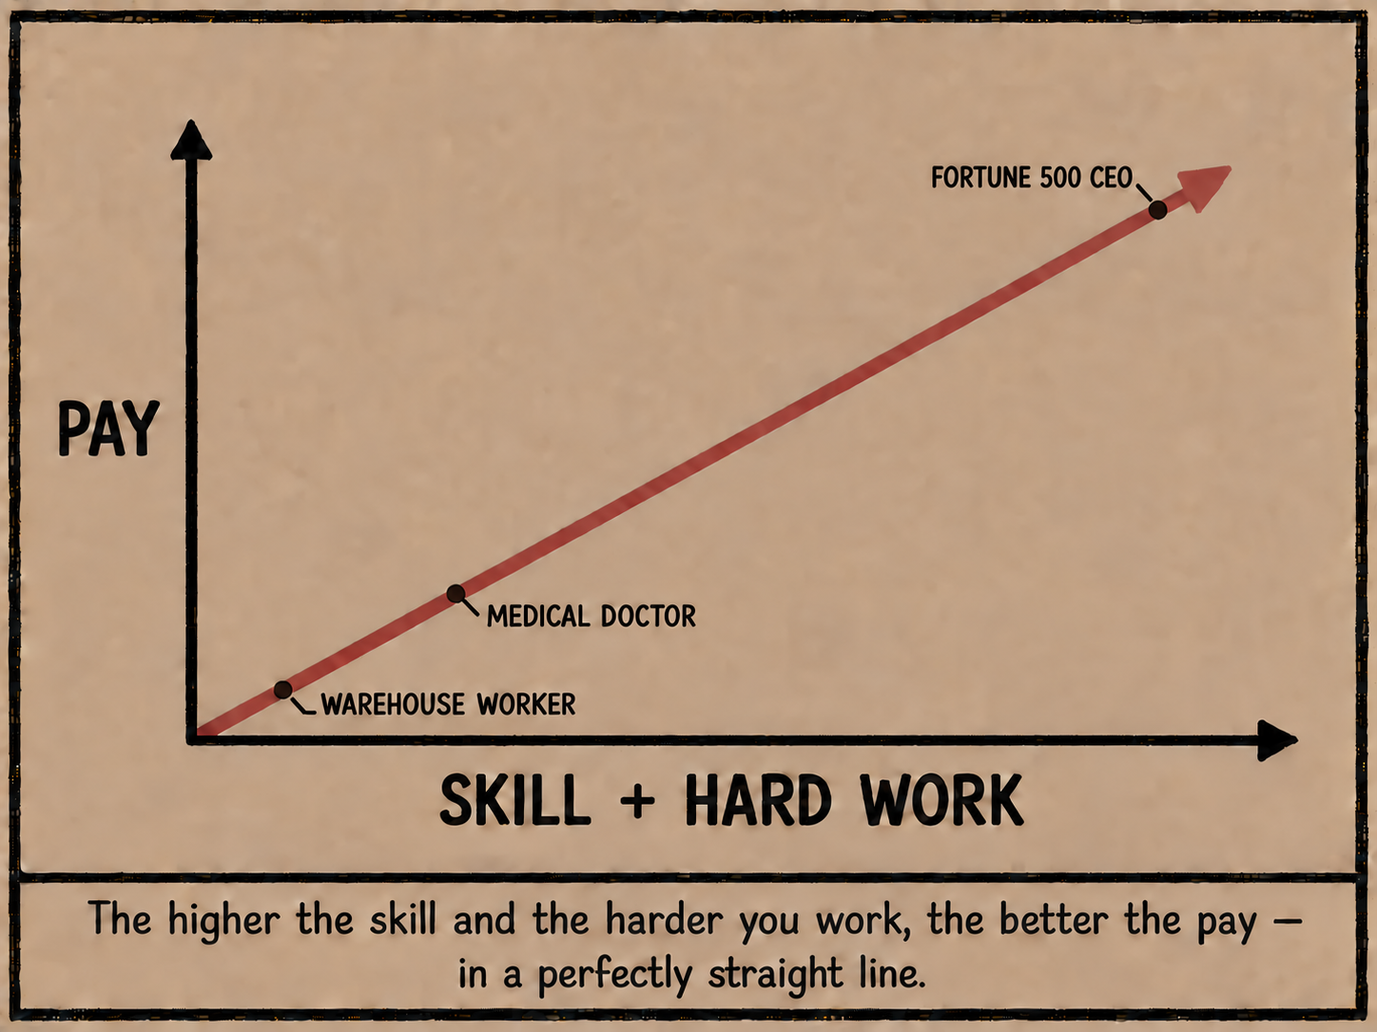
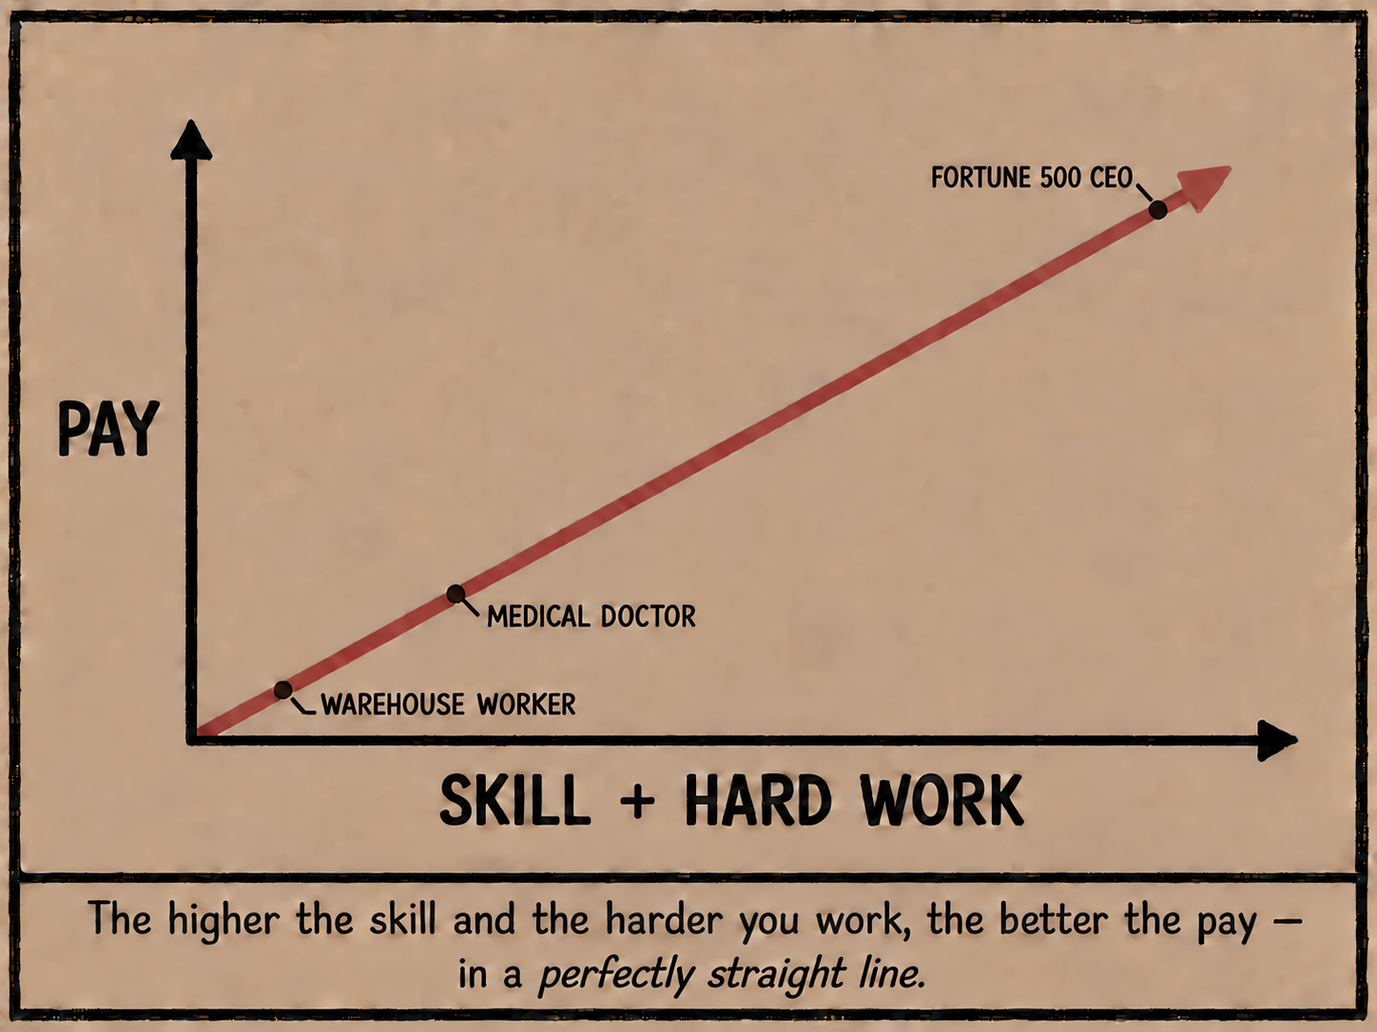
Update skill comic and move Abuse summary to description

Changed region(s): [[0.5283, 0.9116, 0.6837, 0.9724], [0.3729, 0.9116, 0.4972, 0.9724], [0.2797, 0.6685, 0.3419, 0.6989]]

diff --git a/comics/abuse/index.html b/comics/abuse/index.html
@@ -3,13 +3,13 @@
   <head>
     <meta charset="UTF-8" />
     <meta name="viewport" content="width=device-width, initial-scale=1.0" />
-    <meta name="description" content="A text-based political comic about Donald Trump&#x27;s pardons for men convicted in the January 6 attack on D.C. police officer Michael Fanone." />
+    <meta name="description" content="The comic describes how a stupid, mouth breathing mob that thought the 2020 election was &quot;rigged&quot; beat and tortured a police officer and then got pardoned by a fake president." />
     <meta name="robots" content="index, follow, max-image-preview:large" />
     <meta name="theme-color" content="#f5f2eb" />
     <meta property="og:type" content="article" />
     <meta property="og:site_name" content="Stealing Art Jobs" />
     <meta property="og:title" content="Abuse — Stealing Art Jobs" />
-    <meta property="og:description" content="A text-based political comic about Donald Trump&#x27;s pardons for men convicted in the January 6 attack on D.C. police officer Michael Fanone." />
+    <meta property="og:description" content="The comic describes how a stupid, mouth breathing mob that thought the 2020 election was &quot;rigged&quot; beat and tortured a police officer and then got pardoned by a fake president." />
     <meta property="og:image" content="https://stealingartjobs.com/comics/abuse.png?v=4" />
     <meta property="og:url" content="https://stealingartjobs.com/comics/abuse/" />
     <link rel="canonical" href="https://stealingartjobs.com/comics/abuse/" />
@@ -19,7 +19,7 @@
     <link href="https://fonts.googleapis.com/css2?family=DM+Mono:wght@400;500&family=Manrope:wght@500;600;700;800&display=swap" rel="stylesheet" />
     <link rel="stylesheet" href="/styles.css?v=21" />
     <script type="application/ld+json">{"@context":"https://schema.org","@type":"WebSite","name":"Stealing Art Jobs","url":"https://stealingartjobs.com/","description":"An independent webcomic about art, work, technology, and strange incentives."}</script>
-    <script type="application/ld+json">{"@context": "https://schema.org", "@type": "CreativeWork", "name": "Abuse", "description": "A text-based political comic about Donald Trump's pardons for men convicted in the January 6 attack on D.C. police officer Michael Fanone.", "datePublished": "2026-10-29", "image": "https://stealingartjobs.com/comics/abuse.png?v=4", "url": "https://stealingartjobs.com/comics/abuse/", "isPartOf": {"@type": "WebSite", "name": "Stealing Art Jobs", "url": "https://stealingartjobs.com/"}}</script>
+    <script type="application/ld+json">{"@context": "https://schema.org", "@type": "CreativeWork", "name": "Abuse", "description": "The comic describes how a stupid, mouth breathing mob that thought the 2020 election was \"rigged\" beat and tortured a police officer and then got pardoned by a fake president.", "datePublished": "2026-10-29", "image": "https://stealingartjobs.com/comics/abuse.png?v=4", "url": "https://stealingartjobs.com/comics/abuse/", "isPartOf": {"@type": "WebSite", "name": "Stealing Art Jobs", "url": "https://stealingartjobs.com/"}}</script>
   </head>
   <body>
     <header class="site-header">
@@ -58,7 +58,7 @@
           <li><a href="/comics/executive/" data-comic-index="5"><span>06</span><strong>Executive</strong><span>Uploaded August 26, 2026</span></a></li>
           <li><a href="/comics/american-software-engineer/" data-comic-index="6"><span>07</span><strong>American</strong><span>Uploaded August 27, 2026</span></a></li>
           <li><a href="/comics/captive-users/" data-comic-index="7"><span>08</span><strong>Captive Users</strong><span>Uploaded August 28, 2026</span></a></li>
-          <li><a href="/comics/pay-by-skill/" data-comic-index="8"><span>09</span><strong>Pay by Skill</strong><span>Uploaded September 24, 2026</span></a></li>
+          <li><a href="/comics/pay-by-skill/" data-comic-index="8"><span>09</span><strong>They&#x27;re just that much smarter bro!</strong><span>Uploaded September 24, 2026</span></a></li>
           <li><a href="/comics/living-memory/" data-comic-index="9"><span>10</span><strong>Living Memory</strong><span>Uploaded October 4, 2026</span></a></li>
           <li><a href="/comics/abuse/" data-comic-index="10"><span>11</span><strong>Abuse</strong><span>Uploaded October 29, 2026</span></a></li>
           <li><a href="/comics/more-abuse/" data-comic-index="11"><span>12</span><strong>More Abuse</strong><span>Uploaded October 29, 2026</span></a></li>
@@ -83,7 +83,7 @@
           <button class="comic-arrow comic-arrow-next" id="comic-next" type="button" aria-label="Next comic" disabled><span aria-hidden="true">&gt;</span></button>
         </figure>
 
-        <p class="comic-caption" id="comic-caption">The comic describes how a stupid, mouth breathing mob that thought the 2020 election was &quot;rigged&quot; beat and tortured a police officer and then got pardoned by a fake president</p>
+        <p class="comic-caption" id="comic-caption" hidden></p>
 
         <div class="reader-controls" aria-label="Comic navigation">
           <button id="first-button" type="button"><span aria-hidden="true">↤</span> First</button>
@@ -96,6 +96,7 @@
         <details class="comic-transcript" id="comic-transcript">
           <summary>Description</summary>
           <div class="comic-transcript-copy" id="comic-transcript-copy">
+            <p>The comic describes how a stupid, mouth breathing mob that thought the 2020 election was &quot;rigged&quot; beat and tortured a police officer and then got pardoned by a fake president.</p>
             <p>Headline: ‘Pardoned.’</p>
             <p>On January 20, 2025, Republican President Donald Trump pardoned men convicted in the January 6, 2021 attack on D.C. police officer Michael Fanone.</p>
             <p>Daniel Rodriguez shocked Fanone in the neck with a stun gun and was sentenced to 151 months in prison.</p>

diff --git a/comics/pay-by-skill/index.html b/comics/pay-by-skill/index.html
@@ -8,18 +8,18 @@
     <meta name="theme-color" content="#f5f2eb" />
     <meta property="og:type" content="article" />
     <meta property="og:site_name" content="Stealing Art Jobs" />
-    <meta property="og:title" content="Pay by Skill — Stealing Art Jobs" />
+    <meta property="og:title" content="They&#x27;re just that much smarter bro! — Stealing Art Jobs" />
     <meta property="og:description" content="A satirical linear graph ranks a warehouse worker, medical doctor, and Fortune 500 CEO as if pay perfectly reflected skill and hard work." />
-    <meta property="og:image" content="https://stealingartjobs.com/comics/pay-by-skill.png?v=2" />
+    <meta property="og:image" content="https://stealingartjobs.com/comics/pay-by-skill.png?v=3" />
     <meta property="og:url" content="https://stealingartjobs.com/comics/pay-by-skill/" />
     <link rel="canonical" href="https://stealingartjobs.com/comics/pay-by-skill/" />
-    <title>Pay by Skill — Stealing Art Jobs</title>
+    <title>They&#x27;re just that much smarter bro! — Stealing Art Jobs</title>
     <link rel="preconnect" href="https://fonts.googleapis.com" />
     <link rel="preconnect" href="https://fonts.gstatic.com" crossorigin />
     <link href="https://fonts.googleapis.com/css2?family=DM+Mono:wght@400;500&family=Manrope:wght@500;600;700;800&display=swap" rel="stylesheet" />
     <link rel="stylesheet" href="/styles.css?v=21" />
     <script type="application/ld+json">{"@context":"https://schema.org","@type":"WebSite","name":"Stealing Art Jobs","url":"https://stealingartjobs.com/","description":"An independent webcomic about art, work, technology, and strange incentives."}</script>
-    <script type="application/ld+json">{"@context": "https://schema.org", "@type": "CreativeWork", "name": "Pay by Skill", "description": "A satirical linear graph ranks a warehouse worker, medical doctor, and Fortune 500 CEO as if pay perfectly reflected skill and hard work.", "datePublished": "2026-09-24", "image": "https://stealingartjobs.com/comics/pay-by-skill.png?v=2", "url": "https://stealingartjobs.com/comics/pay-by-skill/", "isPartOf": {"@type": "WebSite", "name": "Stealing Art Jobs", "url": "https://stealingartjobs.com/"}}</script>
+    <script type="application/ld+json">{"@context": "https://schema.org", "@type": "CreativeWork", "name": "They're just that much smarter bro!", "description": "A satirical linear graph ranks a warehouse worker, medical doctor, and Fortune 500 CEO as if pay perfectly reflected skill and hard work.", "datePublished": "2026-09-24", "image": "https://stealingartjobs.com/comics/pay-by-skill.png?v=3", "url": "https://stealingartjobs.com/comics/pay-by-skill/", "isPartOf": {"@type": "WebSite", "name": "Stealing Art Jobs", "url": "https://stealingartjobs.com/"}}</script>
   </head>
   <body>
     <header class="site-header">
@@ -58,7 +58,7 @@
           <li><a href="/comics/executive/" data-comic-index="5"><span>06</span><strong>Executive</strong><span>Uploaded August 26, 2026</span></a></li>
           <li><a href="/comics/american-software-engineer/" data-comic-index="6"><span>07</span><strong>American</strong><span>Uploaded August 27, 2026</span></a></li>
           <li><a href="/comics/captive-users/" data-comic-index="7"><span>08</span><strong>Captive Users</strong><span>Uploaded August 28, 2026</span></a></li>
-          <li><a href="/comics/pay-by-skill/" data-comic-index="8"><span>09</span><strong>Pay by Skill</strong><span>Uploaded September 24, 2026</span></a></li>
+          <li><a href="/comics/pay-by-skill/" data-comic-index="8"><span>09</span><strong>They&#x27;re just that much smarter bro!</strong><span>Uploaded September 24, 2026</span></a></li>
           <li><a href="/comics/living-memory/" data-comic-index="9"><span>10</span><strong>Living Memory</strong><span>Uploaded October 4, 2026</span></a></li>
           <li><a href="/comics/abuse/" data-comic-index="10"><span>11</span><strong>Abuse</strong><span>Uploaded October 29, 2026</span></a></li>
           <li><a href="/comics/more-abuse/" data-comic-index="11"><span>12</span><strong>More Abuse</strong><span>Uploaded October 29, 2026</span></a></li>
@@ -75,11 +75,11 @@
           <p class="date" id="comic-date">Uploaded September 24, 2026</p>
         </div>
 
-        <h1 id="comic-title">Pay by Skill</h1>
+        <h1 id="comic-title">They&#x27;re just that much smarter bro!</h1>
 
         <figure class="comic-frame" id="comic-frame">
           <button class="comic-arrow comic-arrow-previous" id="comic-previous" type="button" aria-label="Previous comic"><span aria-hidden="true">&lt;</span></button>
-          <img id="comic-image" src="/comics/pay-by-skill.png?v=2" alt="A satirical graph places a warehouse worker near the bottom, a medical doctor slightly above, and a Fortune 500 CEO near the top of a perfectly straight line representing pay by skill and hard work." />
+          <img id="comic-image" src="/comics/pay-by-skill.png?v=3" alt="A satirical graph places a warehouse worker near the bottom, a medical doctor slightly above, and a Fortune 500 CEO near the top of a perfectly straight line representing pay by skill and hard work." />
           <button class="comic-arrow comic-arrow-next" id="comic-next" type="button" aria-label="Next comic" disabled><span aria-hidden="true">&gt;</span></button>
         </figure>
 

diff --git a/comics/alcoholic/index.html b/comics/alcoholic/index.html
@@ -58,7 +58,7 @@
           <li><a href="/comics/executive/" data-comic-index="5"><span>06</span><strong>Executive</strong><span>Uploaded August 26, 2026</span></a></li>
           <li><a href="/comics/american-software-engineer/" data-comic-index="6"><span>07</span><strong>American</strong><span>Uploaded August 27, 2026</span></a></li>
           <li><a href="/comics/captive-users/" data-comic-index="7"><span>08</span><strong>Captive Users</strong><span>Uploaded August 28, 2026</span></a></li>
-          <li><a href="/comics/pay-by-skill/" data-comic-index="8"><span>09</span><strong>Pay by Skill</strong><span>Uploaded September 24, 2026</span></a></li>
+          <li><a href="/comics/pay-by-skill/" data-comic-index="8"><span>09</span><strong>They&#x27;re just that much smarter bro!</strong><span>Uploaded September 24, 2026</span></a></li>
           <li><a href="/comics/living-memory/" data-comic-index="9"><span>10</span><strong>Living Memory</strong><span>Uploaded October 4, 2026</span></a></li>
           <li><a href="/comics/abuse/" data-comic-index="10"><span>11</span><strong>Abuse</strong><span>Uploaded October 29, 2026</span></a></li>
           <li><a href="/comics/more-abuse/" data-comic-index="11"><span>12</span><strong>More Abuse</strong><span>Uploaded October 29, 2026</span></a></li>

diff --git a/comics/american-software-engineer/index.html b/comics/american-software-engineer/index.html
@@ -67,7 +67,7 @@
           <li><a href="/comics/executive/" data-comic-index="5"><span>06</span><strong>Executive</strong><span>Uploaded August 26, 2026</span></a></li>
           <li><a href="/comics/american-software-engineer/" data-comic-index="6"><span>07</span><strong>American</strong><span>Uploaded August 27, 2026</span></a></li>
           <li><a href="/comics/captive-users/" data-comic-index="7"><span>08</span><strong>Captive Users</strong><span>Uploaded August 28, 2026</span></a></li>
-          <li><a href="/comics/pay-by-skill/" data-comic-index="8"><span>09</span><strong>Pay by Skill</strong><span>Uploaded September 24, 2026</span></a></li>
+          <li><a href="/comics/pay-by-skill/" data-comic-index="8"><span>09</span><strong>They&#x27;re just that much smarter bro!</strong><span>Uploaded September 24, 2026</span></a></li>
           <li><a href="/comics/living-memory/" data-comic-index="9"><span>10</span><strong>Living Memory</strong><span>Uploaded October 4, 2026</span></a></li>
           <li><a href="/comics/abuse/" data-comic-index="10"><span>11</span><strong>Abuse</strong><span>Uploaded October 29, 2026</span></a></li>
           <li><a href="/comics/more-abuse/" data-comic-index="11"><span>12</span><strong>More Abuse</strong><span>Uploaded October 29, 2026</span></a></li>

diff --git a/comics/artist/index.html b/comics/artist/index.html
@@ -58,7 +58,7 @@
           <li><a href="/comics/executive/" data-comic-index="5"><span>06</span><strong>Executive</strong><span>Uploaded August 26, 2026</span></a></li>
           <li><a href="/comics/american-software-engineer/" data-comic-index="6"><span>07</span><strong>American</strong><span>Uploaded August 27, 2026</span></a></li>
           <li><a href="/comics/captive-users/" data-comic-index="7"><span>08</span><strong>Captive Users</strong><span>Uploaded August 28, 2026</span></a></li>
-          <li><a href="/comics/pay-by-skill/" data-comic-index="8"><span>09</span><strong>Pay by Skill</strong><span>Uploaded September 24, 2026</span></a></li>
+          <li><a href="/comics/pay-by-skill/" data-comic-index="8"><span>09</span><strong>They&#x27;re just that much smarter bro!</strong><span>Uploaded September 24, 2026</span></a></li>
           <li><a href="/comics/living-memory/" data-comic-index="9"><span>10</span><strong>Living Memory</strong><span>Uploaded October 4, 2026</span></a></li>
           <li><a href="/comics/abuse/" data-comic-index="10"><span>11</span><strong>Abuse</strong><span>Uploaded October 29, 2026</span></a></li>
           <li><a href="/comics/more-abuse/" data-comic-index="11"><span>12</span><strong>More Abuse</strong><span>Uploaded October 29, 2026</span></a></li>

diff --git a/comics/automoderation/index.html b/comics/automoderation/index.html
@@ -58,7 +58,7 @@
           <li><a href="/comics/executive/" data-comic-index="5"><span>06</span><strong>Executive</strong><span>Uploaded August 26, 2026</span></a></li>
           <li><a href="/comics/american-software-engineer/" data-comic-index="6"><span>07</span><strong>American</strong><span>Uploaded August 27, 2026</span></a></li>
           <li><a href="/comics/captive-users/" data-comic-index="7"><span>08</span><strong>Captive Users</strong><span>Uploaded August 28, 2026</span></a></li>
-          <li><a href="/comics/pay-by-skill/" data-comic-index="8"><span>09</span><strong>Pay by Skill</strong><span>Uploaded September 24, 2026</span></a></li>
+          <li><a href="/comics/pay-by-skill/" data-comic-index="8"><span>09</span><strong>They&#x27;re just that much smarter bro!</strong><span>Uploaded September 24, 2026</span></a></li>
           <li><a href="/comics/living-memory/" data-comic-index="9"><span>10</span><strong>Living Memory</strong><span>Uploaded October 4, 2026</span></a></li>
           <li><a href="/comics/abuse/" data-comic-index="10"><span>11</span><strong>Abuse</strong><span>Uploaded October 29, 2026</span></a></li>
           <li><a href="/comics/more-abuse/" data-comic-index="11"><span>12</span><strong>More Abuse</strong><span>Uploaded October 29, 2026</span></a></li>

diff --git a/comics/captive-users/index.html b/comics/captive-users/index.html
@@ -58,7 +58,7 @@
           <li><a href="/comics/executive/" data-comic-index="5"><span>06</span><strong>Executive</strong><span>Uploaded August 26, 2026</span></a></li>
           <li><a href="/comics/american-software-engineer/" data-comic-index="6"><span>07</span><strong>American</strong><span>Uploaded August 27, 2026</span></a></li>
           <li><a href="/comics/captive-users/" data-comic-index="7"><span>08</span><strong>Captive Users</strong><span>Uploaded August 28, 2026</span></a></li>
-          <li><a href="/comics/pay-by-skill/" data-comic-index="8"><span>09</span><strong>Pay by Skill</strong><span>Uploaded September 24, 2026</span></a></li>
+          <li><a href="/comics/pay-by-skill/" data-comic-index="8"><span>09</span><strong>They&#x27;re just that much smarter bro!</strong><span>Uploaded September 24, 2026</span></a></li>
           <li><a href="/comics/living-memory/" data-comic-index="9"><span>10</span><strong>Living Memory</strong><span>Uploaded October 4, 2026</span></a></li>
           <li><a href="/comics/abuse/" data-comic-index="10"><span>11</span><strong>Abuse</strong><span>Uploaded October 29, 2026</span></a></li>
           <li><a href="/comics/more-abuse/" data-comic-index="11"><span>12</span><strong>More Abuse</strong><span>Uploaded October 29, 2026</span></a></li>

diff --git a/comics/douchebag/index.html b/comics/douchebag/index.html
@@ -58,7 +58,7 @@
           <li><a href="/comics/executive/" data-comic-index="5"><span>06</span><strong>Executive</strong><span>Uploaded August 26, 2026</span></a></li>
           <li><a href="/comics/american-software-engineer/" data-comic-index="6"><span>07</span><strong>American</strong><span>Uploaded August 27, 2026</span></a></li>
           <li><a href="/comics/captive-users/" data-comic-index="7"><span>08</span><strong>Captive Users</strong><span>Uploaded August 28, 2026</span></a></li>
-          <li><a href="/comics/pay-by-skill/" data-comic-index="8"><span>09</span><strong>Pay by Skill</strong><span>Uploaded September 24, 2026</span></a></li>
+          <li><a href="/comics/pay-by-skill/" data-comic-index="8"><span>09</span><strong>They&#x27;re just that much smarter bro!</strong><span>Uploaded September 24, 2026</span></a></li>
           <li><a href="/comics/living-memory/" data-comic-index="9"><span>10</span><strong>Living Memory</strong><span>Uploaded October 4, 2026</span></a></li>
           <li><a href="/comics/abuse/" data-comic-index="10"><span>11</span><strong>Abuse</strong><span>Uploaded October 29, 2026</span></a></li>
           <li><a href="/comics/more-abuse/" data-comic-index="11"><span>12</span><strong>More Abuse</strong><span>Uploaded October 29, 2026</span></a></li>

diff --git a/comics/even-more-abuse/index.html b/comics/even-more-abuse/index.html
@@ -58,7 +58,7 @@
           <li><a href="/comics/executive/" data-comic-index="5"><span>06</span><strong>Executive</strong><span>Uploaded August 26, 2026</span></a></li>
           <li><a href="/comics/american-software-engineer/" data-comic-index="6"><span>07</span><strong>American</strong><span>Uploaded August 27, 2026</span></a></li>
           <li><a href="/comics/captive-users/" data-comic-index="7"><span>08</span><strong>Captive Users</strong><span>Uploaded August 28, 2026</span></a></li>
-          <li><a href="/comics/pay-by-skill/" data-comic-index="8"><span>09</span><strong>Pay by Skill</strong><span>Uploaded September 24, 2026</span></a></li>
+          <li><a href="/comics/pay-by-skill/" data-comic-index="8"><span>09</span><strong>They&#x27;re just that much smarter bro!</strong><span>Uploaded September 24, 2026</span></a></li>
           <li><a href="/comics/living-memory/" data-comic-index="9"><span>10</span><strong>Living Memory</strong><span>Uploaded October 4, 2026</span></a></li>
           <li><a href="/comics/abuse/" data-comic-index="10"><span>11</span><strong>Abuse</strong><span>Uploaded October 29, 2026</span></a></li>
           <li><a href="/comics/more-abuse/" data-comic-index="11"><span>12</span><strong>More Abuse</strong><span>Uploaded October 29, 2026</span></a></li>

diff --git a/comics/executive/index.html b/comics/executive/index.html
@@ -58,7 +58,7 @@
           <li><a href="/comics/executive/" data-comic-index="5"><span>06</span><strong>Executive</strong><span>Uploaded August 26, 2026</span></a></li>
           <li><a href="/comics/american-software-engineer/" data-comic-index="6"><span>07</span><strong>American</strong><span>Uploaded August 27, 2026</span></a></li>
           <li><a href="/comics/captive-users/" data-comic-index="7"><span>08</span><strong>Captive Users</strong><span>Uploaded August 28, 2026</span></a></li>
-          <li><a href="/comics/pay-by-skill/" data-comic-index="8"><span>09</span><strong>Pay by Skill</strong><span>Uploaded September 24, 2026</span></a></li>
+          <li><a href="/comics/pay-by-skill/" data-comic-index="8"><span>09</span><strong>They&#x27;re just that much smarter bro!</strong><span>Uploaded September 24, 2026</span></a></li>
           <li><a href="/comics/living-memory/" data-comic-index="9"><span>10</span><strong>Living Memory</strong><span>Uploaded October 4, 2026</span></a></li>
           <li><a href="/comics/abuse/" data-comic-index="10"><span>11</span><strong>Abuse</strong><span>Uploaded October 29, 2026</span></a></li>
           <li><a href="/comics/more-abuse/" data-comic-index="11"><span>12</span><strong>More Abuse</strong><span>Uploaded October 29, 2026</span></a></li>

diff --git a/comics/fool/index.html b/comics/fool/index.html
@@ -58,7 +58,7 @@
           <li><a href="/comics/executive/" data-comic-index="5"><span>06</span><strong>Executive</strong><span>Uploaded August 26, 2026</span></a></li>
           <li><a href="/comics/american-software-engineer/" data-comic-index="6"><span>07</span><strong>American</strong><span>Uploaded August 27, 2026</span></a></li>
           <li><a href="/comics/captive-users/" data-comic-index="7"><span>08</span><strong>Captive Users</strong><span>Uploaded August 28, 2026</span></a></li>
-          <li><a href="/comics/pay-by-skill/" data-comic-index="8"><span>09</span><strong>Pay by Skill</strong><span>Uploaded September 24, 2026</span></a></li>
+          <li><a href="/comics/pay-by-skill/" data-comic-index="8"><span>09</span><strong>They&#x27;re just that much smarter bro!</strong><span>Uploaded September 24, 2026</span></a></li>
           <li><a href="/comics/living-memory/" data-comic-index="9"><span>10</span><strong>Living Memory</strong><span>Uploaded October 4, 2026</span></a></li>
           <li><a href="/comics/abuse/" data-comic-index="10"><span>11</span><strong>Abuse</strong><span>Uploaded October 29, 2026</span></a></li>
           <li><a href="/comics/more-abuse/" data-comic-index="11"><span>12</span><strong>More Abuse</strong><span>Uploaded October 29, 2026</span></a></li>

diff --git a/comics/living-memory/index.html b/comics/living-memory/index.html
@@ -58,7 +58,7 @@
           <li><a href="/comics/executive/" data-comic-index="5"><span>06</span><strong>Executive</strong><span>Uploaded August 26, 2026</span></a></li>
           <li><a href="/comics/american-software-engineer/" data-comic-index="6"><span>07</span><strong>American</strong><span>Uploaded August 27, 2026</span></a></li>
           <li><a href="/comics/captive-users/" data-comic-index="7"><span>08</span><strong>Captive Users</strong><span>Uploaded August 28, 2026</span></a></li>
-          <li><a href="/comics/pay-by-skill/" data-comic-index="8"><span>09</span><strong>Pay by Skill</strong><span>Uploaded September 24, 2026</span></a></li>
+          <li><a href="/comics/pay-by-skill/" data-comic-index="8"><span>09</span><strong>They&#x27;re just that much smarter bro!</strong><span>Uploaded September 24, 2026</span></a></li>
           <li><a href="/comics/living-memory/" data-comic-index="9"><span>10</span><strong>Living Memory</strong><span>Uploaded October 4, 2026</span></a></li>
           <li><a href="/comics/abuse/" data-comic-index="10"><span>11</span><strong>Abuse</strong><span>Uploaded October 29, 2026</span></a></li>
           <li><a href="/comics/more-abuse/" data-comic-index="11"><span>12</span><strong>More Abuse</strong><span>Uploaded October 29, 2026</span></a></li>
